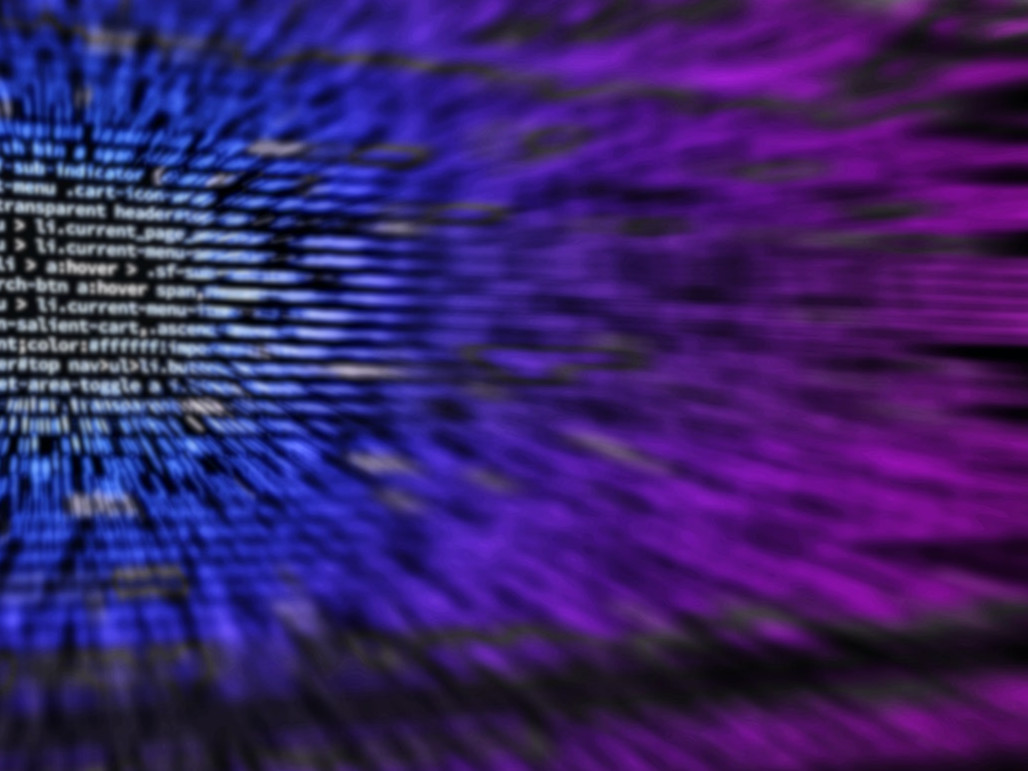
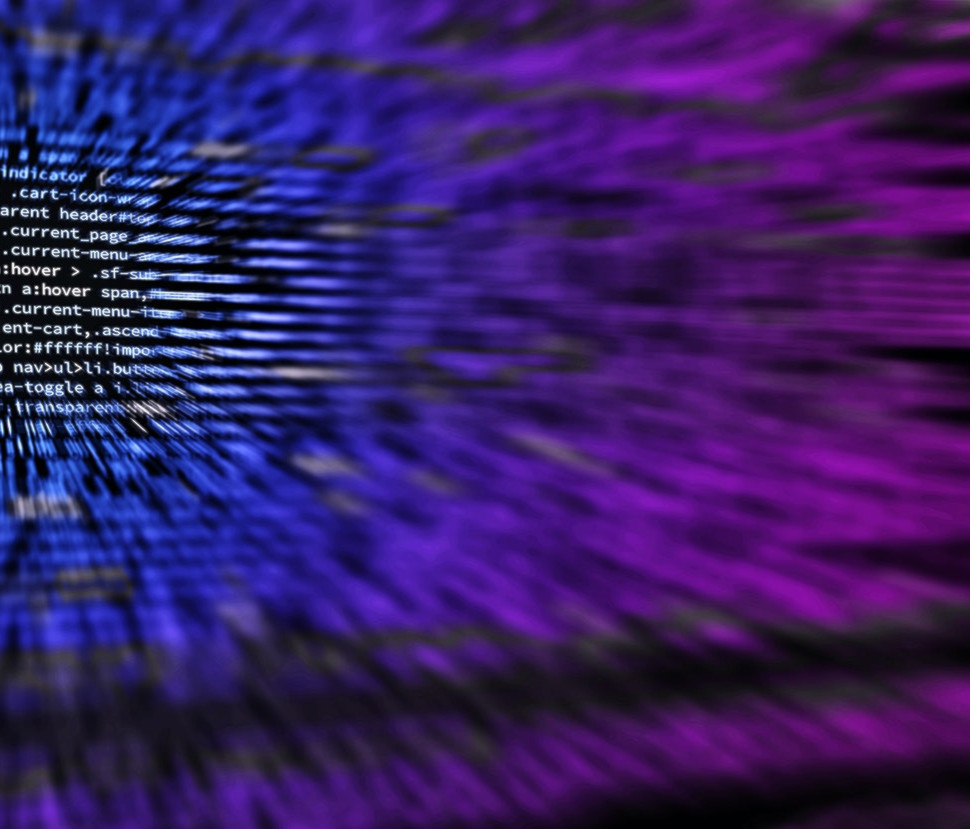
ultimas correções

diff --git a/estilo.css b/estilo.css
@@ -253,6 +253,7 @@ h2.titulo {
 	text-align: center;
 	font-size: 40px;
 	color: rgb(255, 255, 255);
+	margin-bottom: 20px;
 }
 #tamanho {
 	height: 400px;
@@ -405,7 +406,7 @@ div#wpp {
 	#plx {
 		background:url(imagens/programa222.jpg);
 		background-attachment: fixed;			
-		background-position:45%;
+		background-position:100%;
 		background-repeat:no-repeat ;
 		background-size: cover;
 		-webkit-box-sizing: border-box;

diff --git a/index.html b/index.html
@@ -52,8 +52,9 @@
         </div>
        
     </section>
-  
+
 <!-- SOBRE-->
+
 <section id="wines">
     <div class="cont"> 
     <img src="imagens/gatot.jpg" id="gato" class="rounded float-start " alt="pata de gato em cima do teclado">
@@ -66,9 +67,6 @@
         </ul>
         <div id="ancora2"></div>
 </section>
-
-
-<br>
 
 <!--EXPERIÊNCIA-->
 
